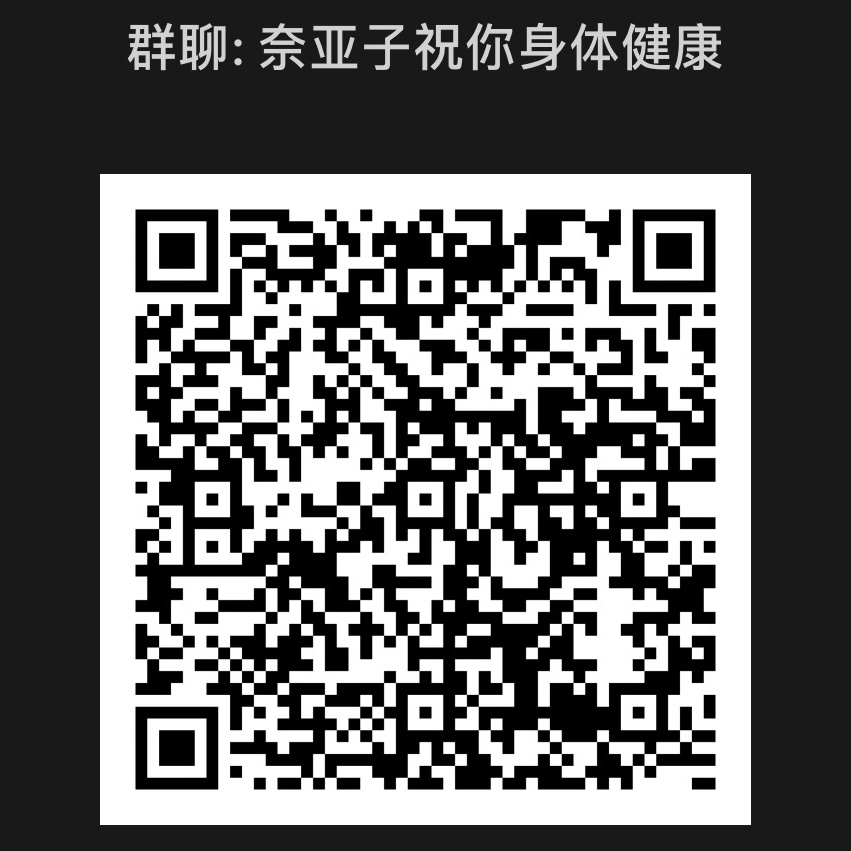
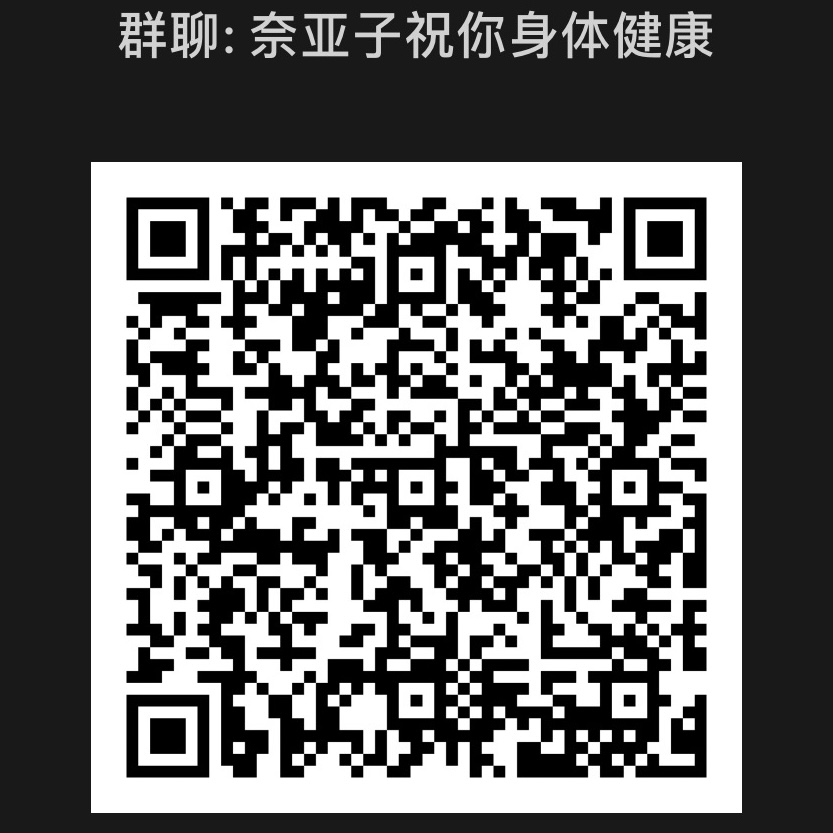
[coc-card] 更新群二维码

diff --git a/src/plugins/51la.ts b/src/plugins/51la.ts
@@ -2,8 +2,32 @@ import { LAEventID, FeatureNames } from '@/constants/coc-card/51la';
 export { LAEventID, FeatureNames };
 
 interface ParamsOfFeature {
-  [key: string]: string | number | boolean;
   name: FeatureNames;
+  /**
+   * 自动年龄修正是否成功。
+   *   条件: MORE_AGE
+   */
+  success?: boolean;
+  /**
+   * 保存的文件名，front | back。
+   *   条件: CA_SAVE_DOWNLOAD, CA_SAVE_REGEN
+   */
+  file?: string;
+  /**
+   * 成功率显示模式，full | simple。
+   *   条件: MORE_TOTAL_MODE
+   */
+  mode?: 'full' | 'simple';
+  /**
+   * 使用的预设职业
+   *   条件: PANE_USE_JOB, PAPER_USE_JOB
+   */
+  job?: string;
+  /**
+   * 使用的预设武器
+   *   条件: PANE_USE_WEAPON, PAPER_USE_WEAPON
+   */
+  weapon?: string;
 }
 
 declare global {
